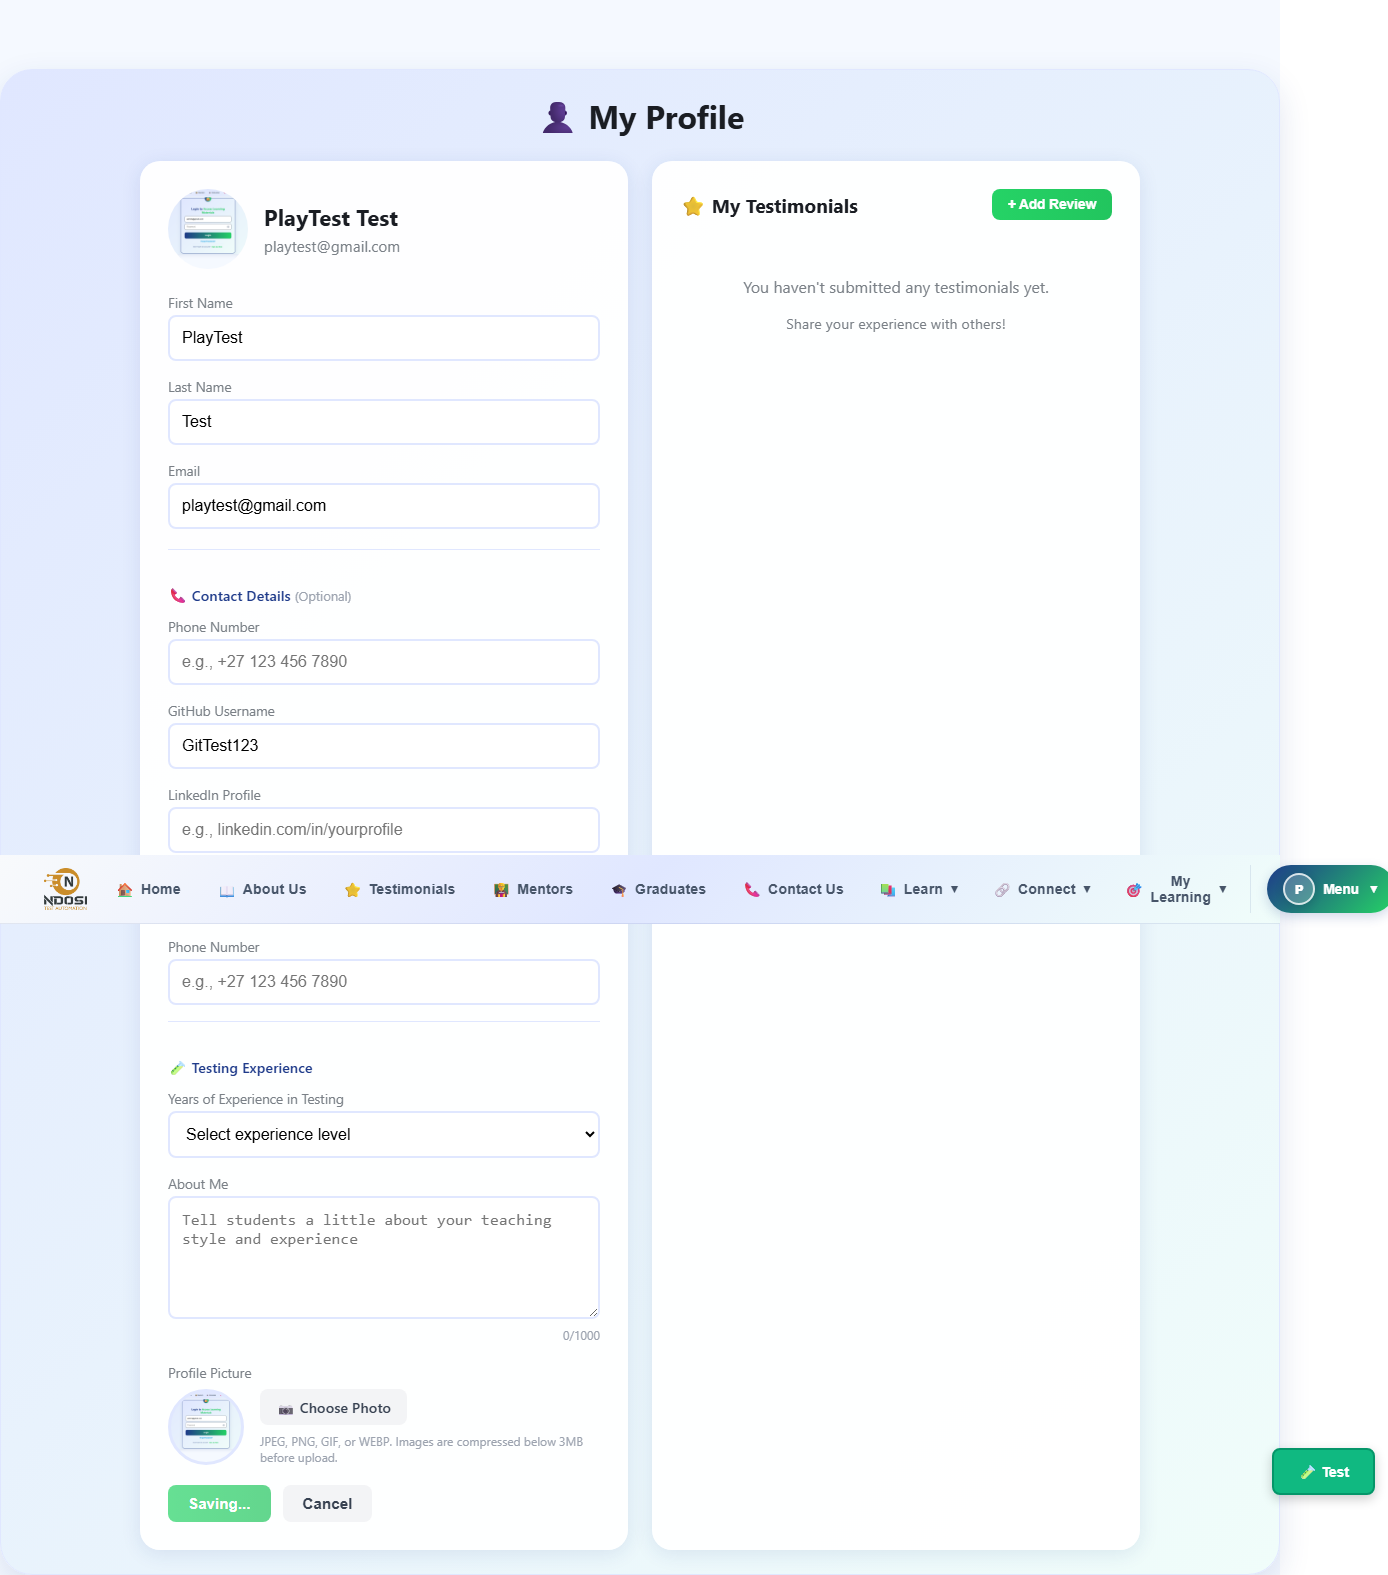
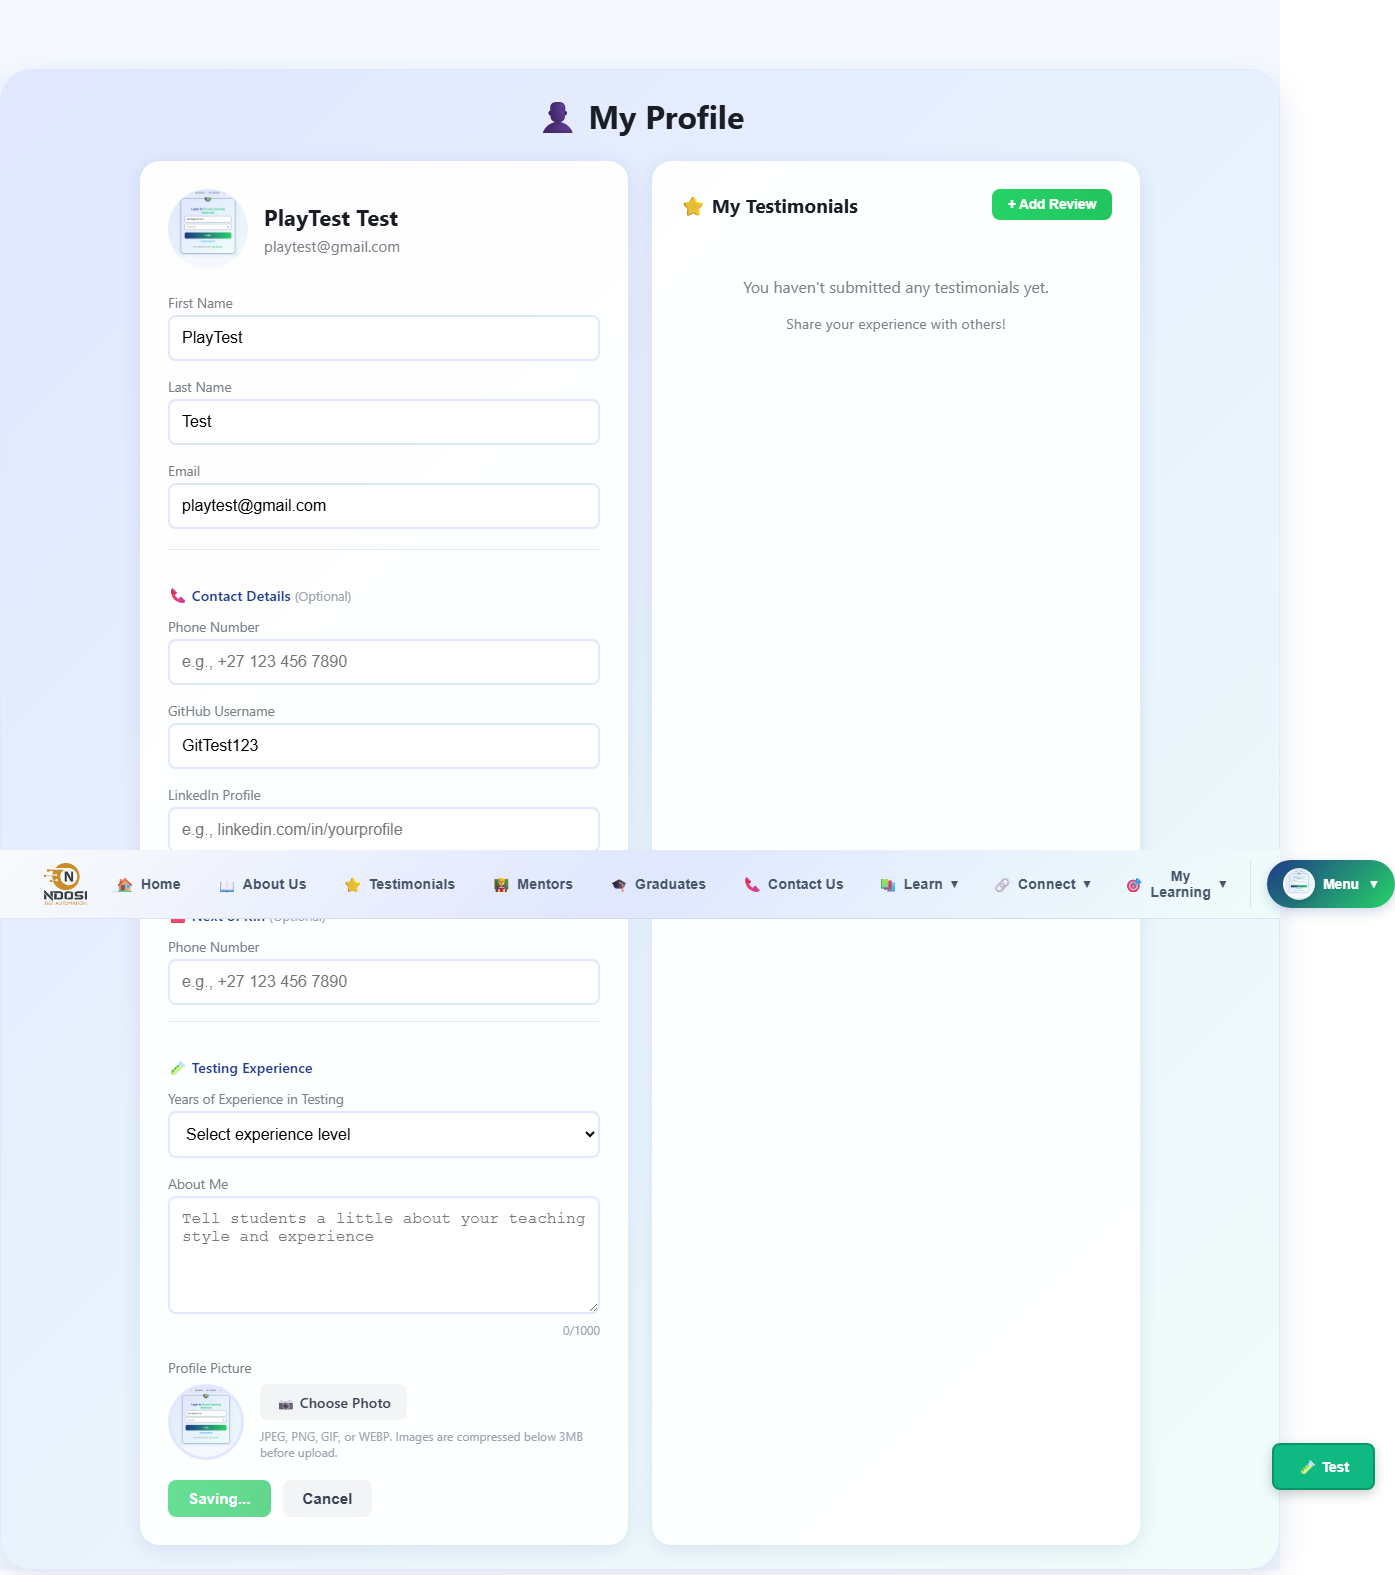
add screenshort method to capture pictures

diff --git a/src/utils/CsvReader.ts b/src/utils/CsvReader.ts
@@ -1,18 +1,18 @@
-//import fs from 'fs';
-//import {parse} from 'csv-parse/sync';
+import fs from 'fs';
+import {parse} from 'csv-parse/sync';
 
 
-//export interface CsvRecord {
-    //[key: string]: string;
-//}
+export interface CsvRecord {
+    [key: string]: string;
+}
 
-//export function readCsv(filePath: string): CsvRecord[] {
-   // const fileContent = fs.readFileSync(filePath, 'utf-8');
+export function readCsv(filePath: string): CsvRecord[] {
+   const fileContent = fs.readFileSync(filePath, 'utf-8');
 
-    //return parse(fileContent, {
-       // columns: true,
-        //skip_empty_lines: true,
-        //delimiter:  ';'
+    return parse(fileContent, {
+        columns: true,
+        skip_empty_lines: true,
+        delimiter:  ';'
         
-   // });
-//}
+    });
+}

diff --git a/playwright.config.ts b/playwright.config.ts
@@ -27,6 +27,7 @@ export default defineConfig({
   use: {
     /* Base URL to use in actions like `await page.goto('')`. */
      baseURL: 'https://ndosisimplifiedautomation.vercel.app/',
+     //https://ndosiautomation.co.za/
 
     /* Collect trace when retrying the failed test. See https://playwright.dev/docs/trace-viewer */
     trace: 'on-first-retry',
